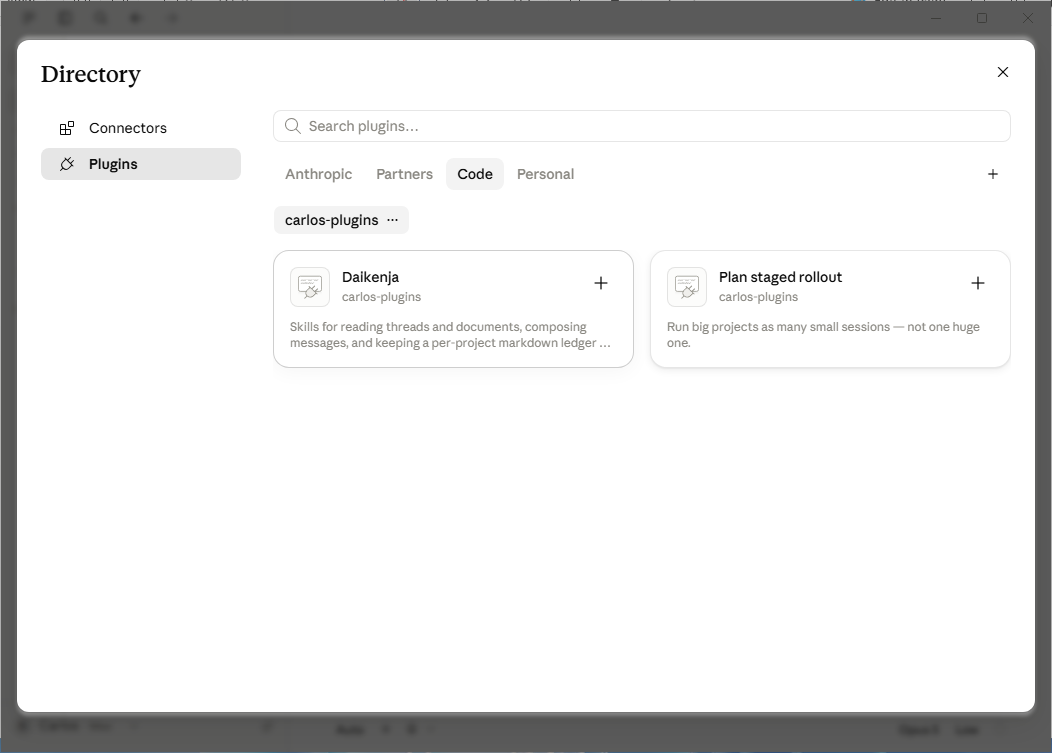
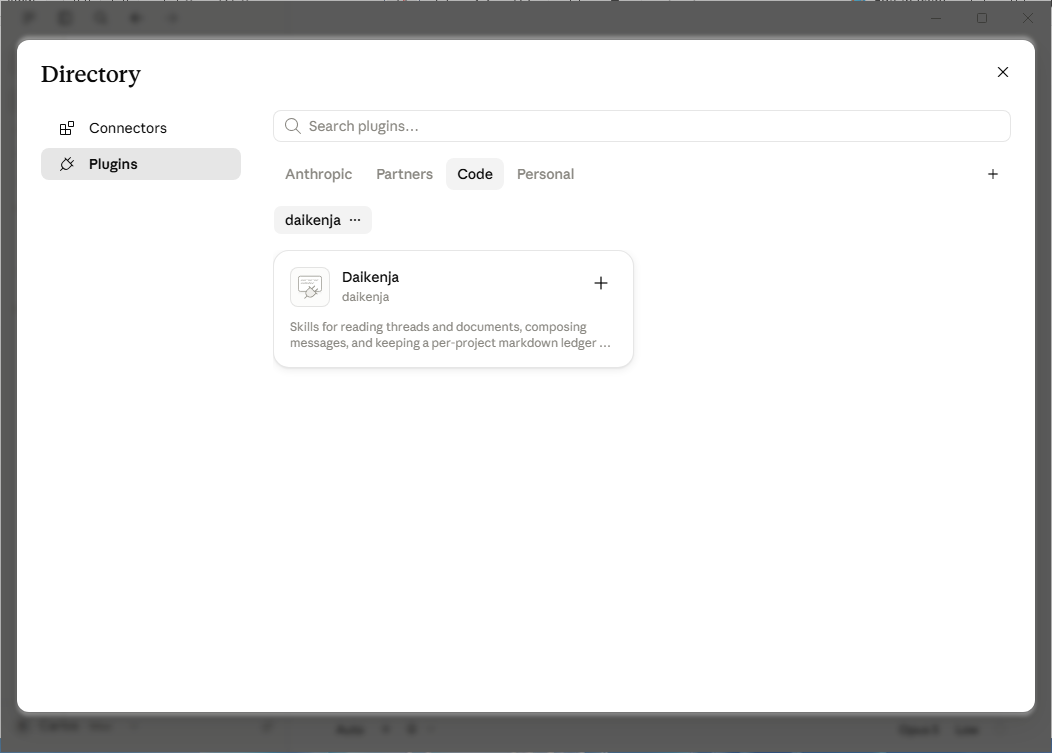
docs(readme): correct the desktop install steps and reshoot the directory
Installing from the live marketplace after #225 showed two things the
README got wrong.

- There is no Browse button to click. The plugin directory opens by
  itself once Sync finishes, so the two-step framing collapses into one
  flow.
- The directory screenshot showed the shared carlos-plugins marketplace,
  because the standalone one was not live when it was taken. It is
  reshot against a standalone by-carlos/daikenja add, so the paragraph
  explaining the mismatch is no longer needed.

diff --git a/README.md b/README.md
@@ -50,26 +50,17 @@ marketplace, and this repo is also a marketplace in its own right -- so you can
 install it on its own, without adding anything else first. Pick whichever of
 these matches how you use Claude Code.
 
-**From the Claude desktop app, no terminal needed.** It is two steps: add the
-marketplace, then install Daikenja from it.
-
-First, open the **Plugins** pane (the **+** button next to the prompt box, then
-**Plugins**) and click **Add**. Put `by-carlos/daikenja` in the **URL** box --
-it takes a GitHub `owner/repo` directly, so there is nothing else to paste --
-then click **Sync**.
+**From the Claude desktop app, no terminal needed.** Open the **Plugins** pane
+(the **+** button next to the prompt box, then **Plugins**) and click **Add**.
+Put `by-carlos/daikenja` in the **URL** box -- it takes a GitHub `owner/repo`
+directly, so there is nothing else to paste -- then click **Sync**.
 
 ![The Add marketplace dialog in the Claude desktop app, with by-carlos/daikenja entered in the URL field](docs/images/claude_desktop_marketplace.png)
 
-Then click **Browse** to open the plugin directory. Under **Plugins**, open the
-**Code** tab and pick the marketplace you just added. Daikenja is listed there
-with a **+** beside it -- click that, and it is installed.
+The plugin directory opens on its own once the sync finishes. Daikenja is under
+the **Code** tab, with a **+** beside it -- click that, and it is installed.
 
 ![The plugin directory in the Claude desktop app, showing the Daikenja card with a + button to install it](docs/images/claude_desktop_plugin.png)
-
-That screenshot shows the shared `carlos-plugins` marketplace, where Daikenja
-sits next to its sibling plugins. If you added `by-carlos/daikenja` on its own,
-you get a marketplace with Daikenja as its only entry -- the screen and the
-**+** work exactly the same.
 
 The same **Plugins** pane is where you later enable, disable or remove it.
 

diff --git a/CHANGELOG.md b/CHANGELOG.md
@@ -7,6 +7,16 @@ and this project adheres to [Semantic Versioning](https://semver.org/spec/v2.0.0
 
 ## [Unreleased]
 
+### Fixed
+
+- **README's desktop install steps match what the app actually does.** They
+  described clicking a **Browse** button to reach the plugin directory; the
+  directory opens on its own once **Sync** finishes, so that step is gone and
+  the two steps read as one flow. The directory screenshot is reshot against a
+  standalone `by-carlos/daikenja` add rather than the shared `carlos-plugins`
+  marketplace, so the paragraph explaining the mismatch is gone too. Confirmed
+  by installing from the live marketplace after #225 landed.
+
 ### Added
 
 - **The repo is now self-installable.** A `.claude-plugin/marketplace.json`
